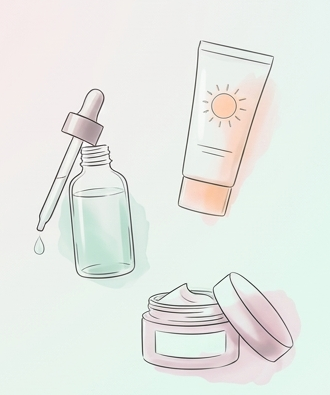
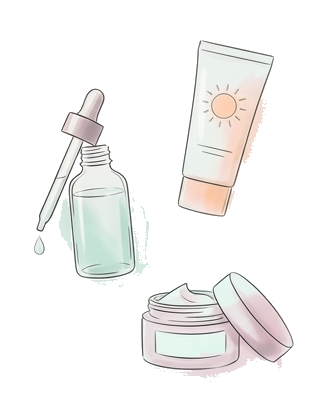
Site: entrance + header redesign, live brand search, cleaner categories
- Full-bleed hero (gradient, droplet, cut-out glass-skin face, Gemini
  product illustrations), smaller title, unified Kërko search pill.
- Header redesign: serif nav, hover/active underline (no permanent lines),
  translucent white, compact outlined search.
- Brand page: searchable simple pink links instead of blocks.
- Category headers cleaned up (no gradient banner); rename to Glassyprice.

diff --git a/site_build.py b/site_build.py
@@ -1,6 +1,6 @@
 #!/usr/bin/env python3
 """
-Multi-page static site generator for Glass Price.
+Multi-page static site generator for Glassyprice.
 
 build_site(products, stores, updated, out_dir) writes:
     <out>/data.js            window.GP = {...} shared by every page (works from file://)
@@ -37,7 +37,7 @@ CONCERNS = {
 TYPES = {
     "pastrues": "Pastrues", "toner": "Toner", "serum": "Serum & Esencë",
     "hidratues": "Hidratues", "maske": "Maskë", "krem_dielli": "Krem Dielli",
-    "trajtim": "Trajtim (njolla/akne)",
+    "trajtim": "Trajtim lokal",
 }
 # section-specific subcategories (keys must match kbeauty.KIND_KW)
 HAIRKINDS = {"shampo": "Shampo", "balsam": "Balsam", "maske_floke": "Maskë & Trajtim",
@@ -69,42 +69,62 @@ a{color:var(--accent);text-decoration:none}
 a:hover{text-decoration:underline}
 .wrap{max-width:1080px;margin:auto;padding:20px 16px 48px}
 
-/* nav */
-.nav{background:var(--card);border-bottom:1px solid var(--line);position:sticky;top:0;z-index:20}
-.nav-in{max-width:1080px;margin:auto;padding:11px 16px;display:flex;align-items:center;gap:16px}
-.logo{font-size:23px;color:var(--ink);display:flex;align-items:center;gap:9px;line-height:1}
+/* header */
+.nav{background:rgba(255,252,253,.8);-webkit-backdrop-filter:saturate(1.3) blur(14px);backdrop-filter:saturate(1.3) blur(14px);
+  border-bottom:1px solid var(--line);box-shadow:0 2px 14px rgba(120,100,110,.06);position:sticky;top:0;z-index:20}
+.nav-in{max-width:1120px;margin:auto;padding:14px 18px;display:flex;align-items:center;gap:22px;flex-wrap:wrap}
+.logo{font-size:24px;color:var(--ink);display:flex;align-items:center;gap:9px;line-height:1;flex:none}
 .logo:hover{text-decoration:none}
-.logo-icon{width:30px;height:30px;flex:none}
+.logo-icon{width:32px;height:32px;flex:none}
 .logo b{color:var(--brand-mint);font-weight:600}
 .logo i{color:var(--brand-pink);font-weight:600;font-style:normal}
-.hero-logo{display:block;margin-bottom:6px}
-.hero-logo:hover{text-decoration:none}
-.hero-logo-img{width:240px;max-width:72vw;height:auto;display:block;margin:0 auto}
-.nav-links{display:flex;gap:18px;flex-wrap:wrap;align-items:center}
-.nav-links a{color:var(--ink);font-size:14.5px;text-decoration:underline;text-underline-offset:5px;
-  text-decoration-thickness:1px;text-decoration-color:var(--line)}
-.nav-links a:hover{color:var(--accent);text-decoration-color:var(--accent)}
-/* search on the right of the header */
-.nav-search{margin-left:auto;position:relative;flex:0 1 300px;min-width:190px}
-.nav-search input{width:100%;padding:9px 46px 9px 16px;font-size:14px;border:1px solid var(--line);
-  border-radius:999px;background:var(--bg);color:var(--ink);outline:none}
-.nav-search input:focus{border-color:var(--pink);background:var(--card)}
-.nav-search .go{position:absolute;right:4px;top:50%;transform:translateY(-50%);width:30px;height:30px;
-  border-radius:50%;border:none;background:var(--accent);color:#fff;display:flex;align-items:center;justify-content:center;cursor:pointer}
-.nav-search .go svg{width:15px;height:15px}
+.nav-links{flex:1;display:flex;justify-content:center;gap:26px;flex-wrap:wrap}
+.nav-links a{position:relative;color:var(--ink);font-family:Fraunces,Georgia,serif;font-size:16px;
+  font-weight:500;padding:3px 1px;white-space:nowrap;text-decoration:none}
+.nav-links a::after{content:"";position:absolute;left:0;right:0;bottom:-3px;height:2px;border-radius:2px;
+  background:var(--pink);transform:scaleX(0);transition:transform .18s ease}
+.nav-links a:hover{color:var(--accent);text-decoration:none}
+.nav-links a:hover::after,.nav-links a.active::after{transform:scaleX(1)}
+.nav-links a.active{color:var(--accent)}
+/* search on the right of the header — light outlined pill, magnifier left */
+.nav-search{flex:0 0 auto;position:relative;width:250px;max-width:40vw}
+.nav-search .mag{position:absolute;left:15px;top:50%;transform:translateY(-50%);width:16px;height:16px;color:var(--muted);pointer-events:none}
+.nav-search input{width:100%;padding:9px 16px 9px 40px;font-size:14px;border:1px solid var(--line);
+  border-radius:999px;background:transparent;color:var(--ink);outline:none}
+.nav-search input::placeholder{color:var(--muted)}
+.nav-search input:focus{border-color:var(--pink)}
+/* live-search dropdown */
+.ac{position:absolute;top:calc(100% + 7px);left:0;right:0;background:#fff;border:1px solid var(--line);
+  border-radius:16px;box-shadow:0 14px 38px rgba(120,100,110,.18);overflow:hidden;z-index:40;display:none;text-align:left}
+.ac.open{display:block}
+.ac a{display:flex;align-items:center;gap:11px;padding:9px 13px;color:var(--ink)}
+.ac a:hover{background:var(--accent-soft);text-decoration:none}
+.ac img{width:42px;height:42px;object-fit:cover;border-radius:9px;background:var(--line);flex:none}
+.ac .meta{display:flex;flex-direction:column;min-width:0}
+.ac .b{font-size:10.5px;text-transform:uppercase;letter-spacing:.05em;color:var(--accent);font-weight:700}
+.ac .n{font-size:13px;line-height:1.25;overflow:hidden;text-overflow:ellipsis;white-space:nowrap}
+.ac .p{margin-left:auto;font-weight:700;white-space:nowrap;font-size:13px;font-variant-numeric:tabular-nums}
+.ac .all{padding:11px 13px;font-size:13px;color:var(--accent);font-weight:600;border-top:1px solid var(--line)}
+.ac .no{padding:14px 13px;color:var(--muted);font-size:13px}
 
 /* hero — full-bleed gradient entrance */
 .hero{position:relative;margin-left:calc(50% - 50vw);margin-right:calc(50% - 50vw);margin-top:-20px;min-height:78vh;overflow:hidden;
   display:flex;flex-direction:column;justify-content:center;align-items:center;text-align:center;padding:36px 22px 54px;
-  background:linear-gradient(105deg,#e7f5ef 0%,#fdeef2 52%,#fbe3ec 100%)}
+  background:linear-gradient(105deg,#fbe3ec 0%,#fdeef2 50%,#e7f5ef 100%)}
 .hero-in{position:relative;z-index:2;width:100%;max-width:640px;margin:auto}
 .hero-logo{display:block;margin:0 auto}
 .hero-logo:hover{text-decoration:none}
-.hero-logo-img{width:clamp(128px,17vw,182px);height:auto;display:block;margin:0 auto -4px}
-.hero h1{font-size:clamp(32px,6.2vw,54px);margin:4px 0 14px;line-height:1.06}
+.hero-logo-img{width:clamp(108px,13vw,150px);height:auto;display:block;margin:0 auto -2px}
+.hero h1{font-size:clamp(26px,4.6vw,42px);margin:4px 0 12px;line-height:1.08}
 .hero h1 em{font-style:italic;color:var(--accent);font-weight:600}
-.hero p{color:var(--ink);opacity:.74;font-size:clamp(15px,2.1vw,19px);margin:0 auto 26px;max-width:520px}
-.hero .search{display:flex;align-items:center;max-width:600px;width:100%;margin:0 auto;background:#fff;
+.hero p{color:var(--ink);opacity:.74;font-size:clamp(14px,1.8vw,17px);margin:0 auto 22px;max-width:480px}
+/* glass-skin face cutout, top-left, soft bottom fade into the gradient */
+.hero-face{position:absolute;top:62px;left:max(0px,1vw);z-index:1;pointer-events:none;
+  width:clamp(230px,26vw,360px);height:auto;opacity:.92;
+  -webkit-mask-image:radial-gradient(circle at 50% 44%,#000 36%,transparent 62%);
+          mask-image:radial-gradient(circle at 50% 44%,#000 36%,transparent 62%)}
+@media(max-width:1000px){.hero-face{display:none}}
+.hero .search{position:relative;display:flex;align-items:center;max-width:600px;width:100%;margin:0 auto;background:#fff;
   border:1px solid var(--line);border-radius:999px;padding:6px 6px 6px 22px;box-shadow:0 8px 26px rgba(196,85,112,.13)}
 .hero .search input{flex:1;min-width:0;border:none;outline:none;background:transparent;font-size:16px;padding:11px 0;color:var(--ink)}
 .hero .search .mag{width:20px;height:20px;color:var(--muted);margin:0 14px;flex:none}
@@ -114,9 +134,7 @@ a:hover{text-decoration:underline}
 /* hero decoration: the illustration cluster, edges feathered into the gradient */
 .hero-deco{position:absolute;top:50%;right:max(6px,3vw);transform:translateY(-50%);
   width:clamp(250px,26vw,380px);z-index:1;pointer-events:none}
-.hero-art{width:100%;height:auto;display:block;mix-blend-mode:multiply;
-  -webkit-mask-image:radial-gradient(125% 118% at 50% 50%,#000 60%,transparent 85%);
-          mask-image:radial-gradient(125% 118% at 50% 50%,#000 60%,transparent 85%)}
+.hero-art{width:100%;height:auto;display:block}
 @media(max-width:1000px){.hero-deco{display:none}}
 
 /* category circles (real product photos, no boxes) */
@@ -140,15 +158,14 @@ a:hover{text-decoration:underline}
 .sec .more{margin-left:auto;font-size:14px}
 .lead{color:var(--muted);margin:2px 0 0}
 
-/* category page intro banner (real product photo) */
-.pagehead{display:flex;align-items:center;gap:22px;border-radius:24px;margin:6px 0 20px;padding:26px 28px;
-  background:linear-gradient(120deg,#eaf6f0 0%,#fde3ea 100%)}
+/* category page header — clean editorial, no gradient */
+.pagehead{display:flex;align-items:center;gap:24px;margin:2px 0 22px;padding:2px 2px 20px;border-bottom:1px solid var(--line)}
 .pagehead .ph-txt{flex:1;min-width:0}
-.pagehead h1{margin:0 0 5px;font-size:clamp(25px,4.2vw,36px)}
-.pagehead .ph-txt p{margin:0;color:var(--ink);opacity:.68;font-size:15px}
-.pagehead .ph-img{width:116px;height:116px;border-radius:20px;object-fit:cover;background:#fff;
-  box-shadow:0 6px 20px rgba(196,85,112,.14);flex:none}
-@media(max-width:560px){.pagehead{padding:22px}.pagehead .ph-img{display:none}}
+.pagehead h1{margin:0 0 5px;font-size:clamp(26px,4.4vw,40px)}
+.pagehead .ph-txt p{margin:0;color:var(--muted);font-size:15px}
+.pagehead .ph-img{width:116px;height:116px;border-radius:50%;object-fit:cover;flex:none;
+  border:4px solid #fff;box-shadow:0 10px 26px rgba(120,100,110,.16);outline:1px solid var(--line);outline-offset:-1px}
+@media(max-width:560px){.pagehead .ph-img{width:86px;height:86px}}
 
 /* filter panel — keep category selection clean */
 .filters-panel{background:var(--card);border:1px solid var(--line);border-radius:18px;padding:16px 18px;margin:0 0 20px}
@@ -164,6 +181,12 @@ a:hover{text-decoration:underline}
 .tile .tic svg{width:100%;height:100%}
 .tile .t{font-weight:600;font-size:15px}
 .tile .c{color:var(--muted);font-size:13px;margin-top:-5px}
+
+/* brand list — simple pink links in columns */
+.brandlist{column-width:188px;column-gap:30px;margin-top:2px}
+.brandlink{display:block;padding:5px 0;color:var(--accent);font-size:15px;break-inside:avoid}
+.brandlink:hover{text-decoration:underline}
+.brandlink span{color:var(--muted);font-size:12px;margin-left:3px}
 
 /* section heading icon */
 .sec h2 .hic{width:22px;height:22px;color:var(--accent);vertical-align:-4px;margin-right:9px}
@@ -294,7 +317,7 @@ function fmt(n){return n==null?'':n.toLocaleString('sq-AL').replace(/[\s, ]/g,'
 function volfmt(v){return v?v.replace(/^([\d.]+)(\D+)$/,'$1 $2').replace('pcs','copë').replace('pairs','palë'):'';}
 function slug(s){return fold(s).replace(/[^a-z0-9]+/g,'-').replace(/^-|-$/g,'');}
 function qp(k){return new URLSearchParams(location.search).get(k);}
-function wordmark(){return '<span class="w"><b>glass</b><i>price</i></span>';}
+function wordmark(){return '<span class="w"><b>glassy</b><i>price</i></span>';}
 
 GP.products.forEach(function(p){
   var ins = p.offers.filter(function(o){return o.in_stock&&o.price!=null;});
@@ -320,6 +343,34 @@ function offerHTML(o,best){
 var PH = GP.photos || {};
 // first product (most popular, since data is pop-sorted) matching a test, with an image
 function firstPhoto(testFn){var p=GP.products.find(function(x){return x.image&&testFn(x);});return p?p.image:'';}
+
+// live-search dropdown: show matching products as you type, under a search form
+function attachLiveSearch(form, input){
+  if(!form||!input) return;
+  var ac=document.createElement('div'); ac.className='ac'; form.appendChild(ac);
+  function close(){ac.className='ac';}
+  var t;
+  function render(){
+    var raw=input.value.trim(), q=fold(raw);
+    if(q.length<2){close();return;}
+    var terms=q.split(/\s+/).filter(Boolean);
+    var r=GP.products.filter(function(p){return terms.every(function(w){return p._hay.indexOf(w)>=0;});});
+    var top=r.slice(0,6).map(function(p){
+      var img=p.image?'<img src="'+esc(p.image)+'" alt="">':'<img alt="">';
+      var price=p._min<Infinity?'<span class="p">'+fmt(p._min)+'</span>':'';
+      return '<a href="produkt.html?p='+p.i+'">'+img+'<span class="meta"><span class="b">'+esc(p.brand)+
+        '</span><span class="n">'+esc(p.name)+'</span></span>'+price+'</a>';
+    }).join('');
+    ac.innerHTML = r.length
+      ? top+'<a class="all" href="kerko.html?q='+encodeURIComponent(raw)+'">Shiko të gjitha '+r.length+' rezultatet →</a>'
+      : '<div class="no">Asnjë produkt për “'+esc(raw)+'”.</div>';
+    ac.className='ac open';
+  }
+  input.addEventListener('input',function(){clearTimeout(t);t=setTimeout(render,110);});
+  input.addEventListener('focus',function(){if(input.value.trim().length>=2) render();});
+  document.addEventListener('click',function(e){if(!form.contains(e.target)) close();});
+  input.addEventListener('keydown',function(e){if(e.key==='Escape') close();});
+}
 function keyPhoto(key, testFn){return PH[key] || firstPhoto(testFn);}
 function badges(p){
   var b='';
@@ -395,7 +446,13 @@ function collection(cfg){
 
   var head;
   if(cfg.banner){
-    var bimg = (cfg.photoKey&&PH[cfg.photoKey]) || firstPhoto(cfg.filter||function(){return true;});
+    var bimg = cfg.photoKey && PH[cfg.photoKey];
+    if(!bimg){
+      var pool = base.filter(function(p){return p.image && p._any;});       // prefer in-stock
+      if(!pool.length) pool = base.filter(function(p){return p.image;});
+      if(cfg.bannerSort==='disc') pool = pool.slice().sort(function(a,b){return b._disc-a._disc;});
+      bimg = pool.length ? pool[0].image : '';
+    }
     head = '<div class="pagehead"><div class="ph-txt"><h1>'+esc(cfg.heading)+'</h1>'+
       (cfg.lead?'<p>'+esc(cfg.lead)+'</p>':'')+'</div>'+
       (bimg?'<img class="ph-img" src="'+esc(bimg)+'" alt="">':'')+'</div>';
@@ -471,11 +528,12 @@ function landing(){
   }).join('');
 
   app.innerHTML =
-    '<section class="hero">'+heroDecoHTML()+'<div class="hero-in">'+
-    '<a class="hero-logo" href="index.html"><img class="hero-logo-img" src="assets/logo-icon.png" alt="glassprice"></a>'+
-    '<h1>Çmime <em>transparente</em><br>për lëkurë si <em>xhami</em>.</h1>'+
+    '<section class="hero">'+heroDecoHTML()+
+    '<img class="hero-face" src="assets/hero-face.png" alt="">'+'<div class="hero-in">'+
+    '<a class="hero-logo" href="index.html"><img class="hero-logo-img" src="assets/logo-icon.png" alt="glassyprice"></a>'+
+    '<h1>Çmime <em>transparente</em><br>për një lëkurë <em>transparente</em>.</h1>'+
     '<p>Krahaso çmimin dhe gjendjen e çdo produkti K-beauty në '+Object.keys(S).length+
-    ' dyqanet shqiptare — në një faqe të vetme.</p>'+
+    ' dyqanet shqiptare, në një faqe të vetme.</p>'+
     '<form class="search" onsubmit="location.href=\'kerko.html?q=\'+encodeURIComponent(this.q.value);return false;">'+
     '<input name="q" type="search" placeholder="Kërko produkt ose markë (p.sh. cosrx snail)">'+
     '<svg class="mag" viewBox="0 0 24 24" fill="none" stroke="currentColor" stroke-width="2" stroke-linecap="round" stroke-linejoin="round"><circle cx="11" cy="11" r="7"/><path d="M21 21l-4.2-4.2"/></svg>'+
@@ -486,6 +544,7 @@ function landing(){
     '<div class="sec"><h2>Bestsellers</h2><a class="more" href="bestsellers.html">Shiko të gjitha →</a></div>'+
     '<div class="grid">'+best.map(card).join('')+'</div>'+
     '<div class="sec"><h2>Blej sipas problemit</h2></div><div class="cats">'+conCircles+'</div>';
+  attachLiveSearch(document.querySelector('.hero .search'), document.querySelector('.hero .search input'));
 }
 
 // ---- product detail ----
@@ -499,7 +558,7 @@ function product(){
     .concat(p.type?['<a class="chip" href="kerko.html?q='+encodeURIComponent(TYP[p.type]||p.type)+'">'+icon(p.type)+esc(TYP[p.type])+'</a>']:[])
     .concat((p.concerns||[]).map(function(k){return '<a class="chip" href="problema-'+k+'.html">'+icon(k)+esc(CON[k]||k)+'</a>';})).join(' ');
   var save = p._save>0?'<span class="save">Kurse deri në '+fmt(p._save)+' duke blerë te më i liri</span>':'';
-  document.title = p.name+' · Glass Price';
+  document.title = p.name+' · Glassyprice';
   app.innerHTML =
     '<a class="back" href="javascript:history.length>1?history.back():location.href=\'index.html\'">← Kthehu</a>'+
     '<div class="detail"><div>'+(p.image?'<img class="hero-img" src="'+esc(p.image)+'" alt="">':'')+'</div>'+
@@ -509,7 +568,7 @@ function product(){
     (chips?'<div class="facets" style="margin-top:18px">'+chips+'</div>':'')+
     '<p class="lead" style="margin-top:18px">Çmimet u kontrolluan së fundmi në kohën te fund i faqes. '+
     'Kliko dyqanin për të konfirmuar çmimin para blerjes.<br>'+
-    '<a href="mailto:hello@getglassprice.com?subject='+encodeURIComponent('Çmim i gabuar: '+p.name)+
+    '<a href="mailto:hello@getglassyprice.com?subject='+encodeURIComponent('Çmim i gabuar: '+p.name)+
     '">Raporto një çmim të gabuar</a></p></div></div>';
 }
 
@@ -525,10 +584,22 @@ function brands(){
   var cnt = {};
   GP.products.forEach(function(p){cnt[p.brand]=(cnt[p.brand]||0)+1;});
   var names = Object.keys(cnt).sort(function(a,b){return a.toLowerCase()<b.toLowerCase()?-1:1;});
-  app.innerHTML = '<div class="sec"><h2>Markat</h2><span class="count">'+names.length+' marka</span></div>'+
-    '<div class="tiles">'+names.map(function(n){
-      return '<a class="tile" href="marka.html?b='+slug(n)+'"><div class="t">'+esc(n)+'</div>'+
-        '<div class="c">'+cnt[n]+' produkte</div></a>';}).join('')+'</div>';
+  app.innerHTML =
+    '<div class="sec"><h2>Markat</h2><span class="count" id="bcount"></span></div>'+
+    '<div class="toolbar"><input type="search" id="bq" placeholder="Kërko markë…" autocomplete="off"></div>'+
+    '<div class="brandlist" id="blist"></div>';
+  var list = document.getElementById('blist'), q = document.getElementById('bq');
+  function run(){
+    var term = fold(q.value);
+    var r = names.filter(function(n){return fold(n).indexOf(term)>=0;});
+    document.getElementById('bcount').textContent = r.length+' marka';
+    list.innerHTML = r.length ? r.map(function(n){
+      return '<a class="brandlink" href="marka.html?b='+slug(n)+'">'+esc(n)+' <span>'+cnt[n]+'</span></a>';
+    }).join('') : '<div class="empty">Asnjë markë nuk u gjet.</div>';
+  }
+  var t;
+  q.addEventListener('input', function(){clearTimeout(t);t=setTimeout(run,100);});
+  run();
 }
 
 // ---- search ----
@@ -548,8 +619,14 @@ document.getElementById('nav').innerHTML =
   '<a href="trupi.html">Trupi</a><a href="makeup.html">Make Up</a>'+
   '<a href="oferta.html">Oferta</a><a href="bestsellers.html">Bestsellers</a><a href="marka.html">Markat</a></nav>'+
   '<form class="nav-search" onsubmit="location.href=\'kerko.html?q=\'+encodeURIComponent(this.q.value);return false;">'+
-  '<input name="q" type="search" placeholder="Kërko… (p.sh. Cosrx, Pyunkang Yul)">'+
-  '<button class="go" type="submit" aria-label="Kërko"><svg viewBox="0 0 24 24" fill="none" stroke="currentColor" stroke-width="2.4" stroke-linecap="round" stroke-linejoin="round"><circle cx="11" cy="11" r="7"/><path d="M21 21l-4.2-4.2"/></svg></button></form></div>';
+  '<svg class="mag" viewBox="0 0 24 24" fill="none" stroke="currentColor" stroke-width="2" stroke-linecap="round" stroke-linejoin="round"><circle cx="11" cy="11" r="7"/><path d="M21 21l-4.2-4.2"/></svg>'+
+  '<input name="q" type="search" placeholder="Kërko produkt ose markë"></form></div>';
+// highlight the current page in the nav
+var here = location.pathname.split('/').pop() || 'index.html';
+document.querySelectorAll('.nav-links a').forEach(function(a){
+  if(a.getAttribute('href')===here) a.className='active';
+});
+attachLiveSearch(document.querySelector('.nav-search'), document.querySelector('.nav-search input'));
 
 var when = new Date(GP.updated);
 document.getElementById('foot').innerHTML =
@@ -623,7 +700,7 @@ def build_site(products, stores, updated, out_dir):
     (out / "data.js").write_text("window.GP=" + data + ";", encoding="utf-8")
     (out / "assets" / "app.css").write_text(CSS, encoding="utf-8")
     (out / "assets" / "app.js").write_text(JS, encoding="utf-8")
-    for asset in ("logo.png", "logo-icon.png", "favicon.png", "hero-art.png"):
+    for asset in ("logo.png", "logo-icon.png", "favicon.png", "hero-art.png", "hero-face.png"):
         src = BRAND_DIR / asset
         if src.exists():
             shutil.copyfile(src, out / "assets" / asset)
@@ -640,21 +717,21 @@ def build_site(products, stores, updated, out_dir):
         "sete":   "facets:[]",
     }
     pages = {
-        "index.html": ("Glass Price — Krahaso çmimet K-beauty në Shqipëri",
+        "index.html": ("Glassyprice · Krahaso çmimet K-beauty në Shqipëri",
                        "Krahaso çmimin dhe gjendjen e çdo produkti K-beauty në dyqanet shqiptare.", "gp.landing();"),
-        "bestsellers.html": ("Bestsellers · Glass Price", "Produktet K-beauty më të shitura.",
-                             "gp.collection({heading:'Bestsellers',banner:true,lead:'Produktet më të kërkuara.',filter:function(p){return p.best;},%s});" % SEC_FACET),
-        "oferta.html": ("Oferta · Glass Price", "Produktet K-beauty me zbritje.",
-                        "gp.collection({heading:'Oferta',banner:true,lead:'Produktet me zbritje, renditur nga zbritja më e madhe.',filter:function(p){return p.offers.some(function(o){return o.compare_at;});},sort:'disc',%s});" % SEC_FACET),
-        "marka.html": ("Markat · Glass Price", "Të gjitha markat K-beauty.", "gp.brands();"),
-        "produkt.html": ("Produkt · Glass Price", "Krahaso çmimet për këtë produkt.", "gp.product();"),
-        "kerko.html": ("Kërko · Glass Price", "Kërko produkte K-beauty.", "gp.search();"),
+        "bestsellers.html": ("Bestsellers · Glassyprice", "Produktet K-beauty më të shitura.",
+                             "gp.collection({heading:'Bestsellers',banner:true,photoKey:'bestsellers',lead:'Produktet më të kërkuara.',filter:function(p){return p.best;},%s});" % SEC_FACET),
+        "oferta.html": ("Oferta · Glassyprice", "Produktet K-beauty me zbritje.",
+                        "gp.collection({heading:'Oferta',banner:true,photoKey:'oferta',bannerSort:'disc',lead:'Produktet me zbritje, renditur nga zbritja më e madhe.',filter:function(p){return p.offers.some(function(o){return o.compare_at;});},sort:'disc',%s});" % SEC_FACET),
+        "marka.html": ("Markat · Glassyprice", "Të gjitha markat K-beauty.", "gp.brands();"),
+        "produkt.html": ("Produkt · Glassyprice", "Krahaso çmimet për këtë produkt.", "gp.product();"),
+        "kerko.html": ("Kërko · Glassyprice", "Kërko produkte K-beauty.", "gp.search();"),
     }
     for key, label in SECTIONS.items():
-        pages[f"{key}.html"] = (f"{label} · Glass Price", f"Produkte K-beauty: {label}.",
+        pages[f"{key}.html"] = (f"{label} · Glassyprice", f"Produkte K-beauty: {label}.",
                                 "gp.collection({heading:%r,banner:true,photoKey:%r,%s,filter:function(p){return (p.sections||[]).indexOf(%r)>=0;}});" % (label, key, SECTION_FACETS[key], key))
     for key, label in CONCERNS.items():
-        pages[f"problema-{key}.html"] = (f"{label} · Glass Price", f"Produkte K-beauty për: {label}.",
+        pages[f"problema-{key}.html"] = (f"{label} · Glassyprice", f"Produkte K-beauty për: {label}.",
                                          "gp.collection({heading:%r,banner:true,photoKey:%r,lead:'Produkte K-beauty për: %s.',filter:function(p){return (p.concerns||[]).indexOf(%r)>=0;},facets:[{id:'typ',label:'Lloji',map:'types',field:'type'}]});" % (label, key, label, key))
 
     for name, (title, desc, init) in pages.items():
